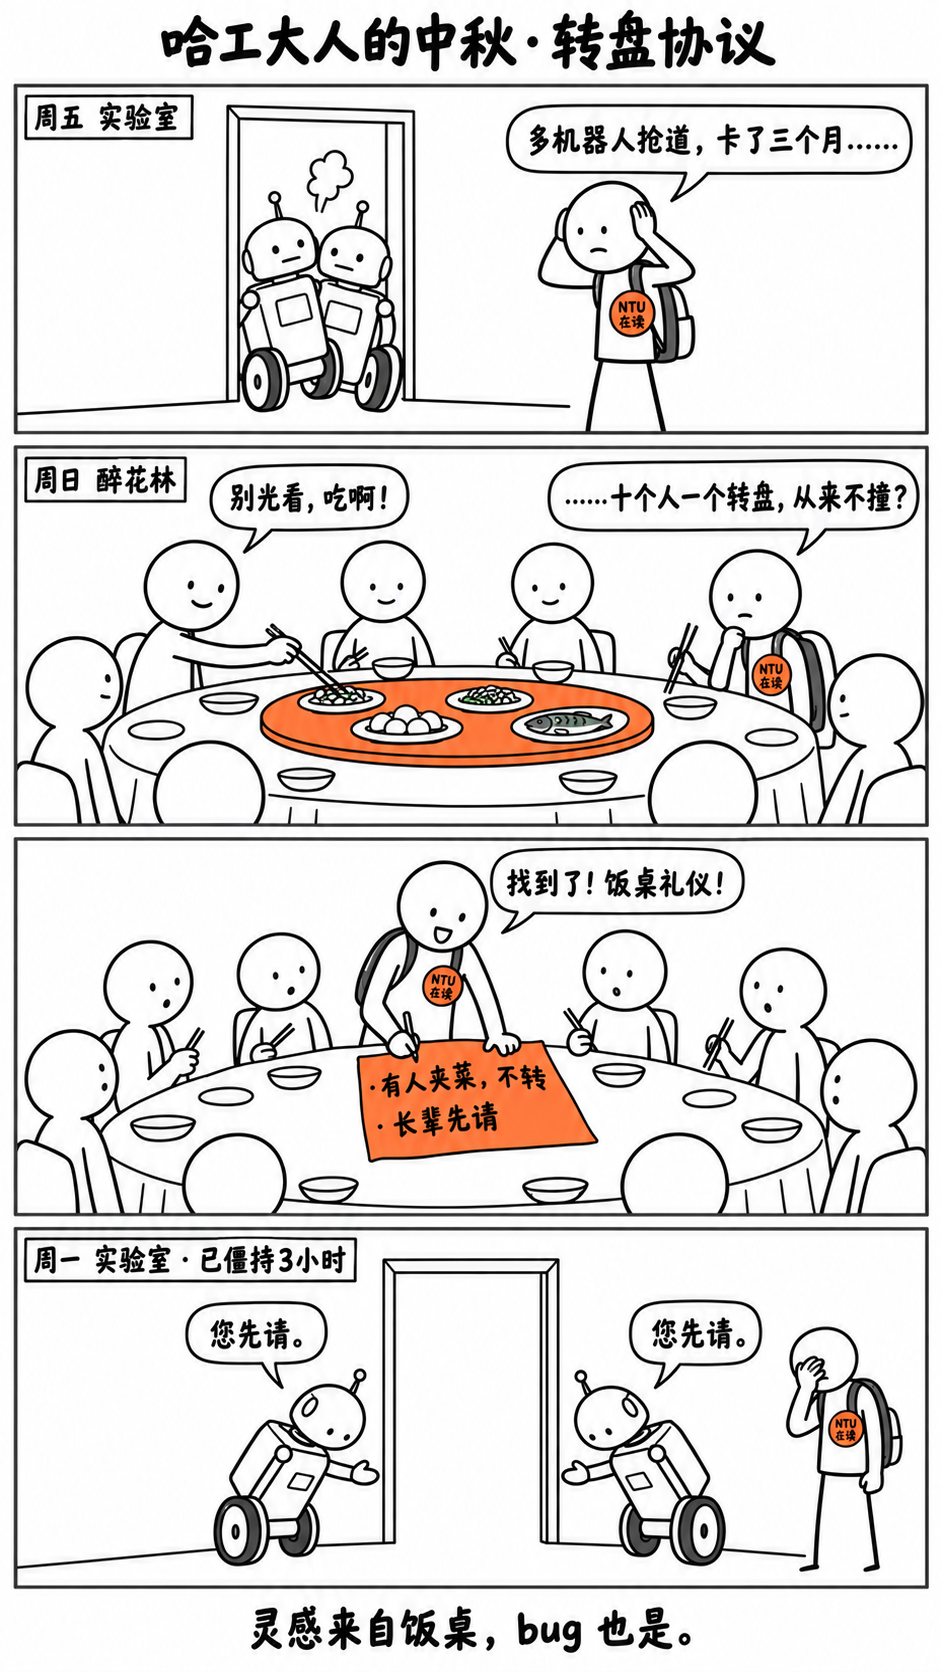
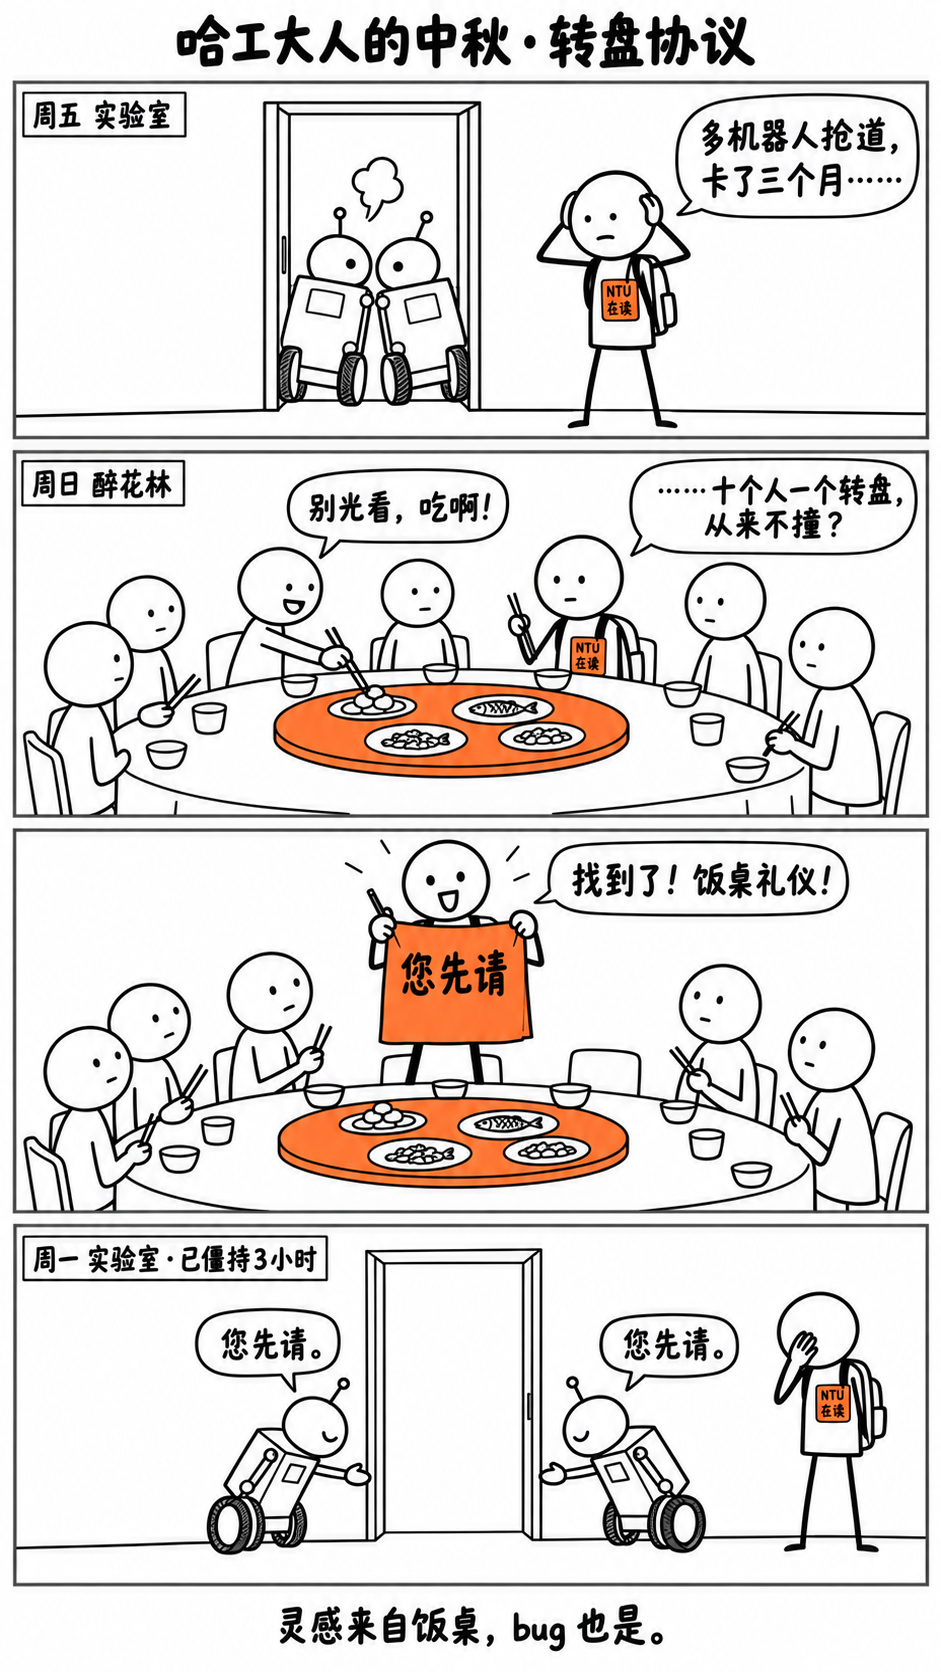
fix: cut the napkin to one line held up facing the reader
The napkin had two lines of notes and read upright to the viewer while the student wrote from the far side. It now holds only 您先请, which the robots repeat in panel 4, and he holds it up like a sign.

Changed region(s): [[0.0, 0.0, 0.9862, 0.9952]]

diff --git a/2026/09/hit-lazy-susan-protocol/zh/prompts/01-page-hit-lazy-susan-protocol.md b/2026/09/hit-lazy-susan-protocol/zh/prompts/01-page-hit-lazy-susan-protocol.md
@@ -16,8 +16,8 @@ Art: minimalist | Tone: neutral | Layout: four-panel vertical | Aspect: 9:16
    「多机器人抢道，卡了三个月……」
 2. Upper-middle (Development): round table with an orange lazy susan; one alumnus picks food while
    it stays still; student stares, chopsticks frozen. 「别光看，吃啊！」「……十个人一个转盘，从来不撞？」
-3. Lower-middle (Turn): student jumps up writing on an orange napkin 「有人夹菜，不转」「长辈先请」;
-   the table stares. 「找到了！饭桌礼仪！」
+3. Lower-middle (Turn): student jumps up and holds an orange napkin out toward the viewer like a
+   sign, reading 「您先请」; the table stares. 「找到了！饭桌礼仪！」
 4. Bottom (Conclusion): lab; the two robots bow to each other on both sides of the doorway, nobody
    enters; student facepalms. 「您先请。」「您先请。」
 
@@ -53,11 +53,14 @@ stays still; the other alumni wait calmly with their chopsticks lowered. The stu
 his chopsticks frozen in midair, not eating, staring intently at the turntable. Speech bubble from
 one alumnus: "别光看，吃啊！" Speech bubble from the student: "……十个人一个转盘，从来不撞？"
 
-Lower-middle panel (Turn, the strongest color emphasis): The same table. The student has sprung up
-from his chair, eyes wide and bright, writing fast with a pen on a large orange napkin held flat
-on the table. The napkin shows two short handwritten lines in black: "有人夹菜，不转" and "长辈先请".
-The orange napkin is the boldest element of the whole page. All the alumni around the table have
-stopped, their chopsticks frozen in midair, staring at him. Speech bubble from the student:
+Lower-middle panel (Turn, the strongest color emphasis): The same table. The student has sprung
+up from his chair, eyes wide and bright, and holds a large orange napkin up in front of his chest
+with both hands, turned outward toward the viewer like a protest sign, a pen still in one hand. The
+napkin is a flat upright rectangle facing the viewer squarely, not lying on the table and not
+tilted in perspective. On it, in big black handwritten characters written horizontally and
+reading upright to the viewer, are exactly three characters and nothing else: "您先请". The orange
+napkin is the boldest element of the whole page. All the alumni around the table have stopped,
+their chopsticks frozen in midair, staring at him. Speech bubble from the student:
 "找到了！饭桌礼仪！"
 
 Bottom panel (Conclusion): A small corner label in the top-left reads "周一 实验室 · 已僵持3小时".

diff --git a/2026/09/hit-noon-moon/research-ideas.md b/2026/09/hit-noon-moon/research-ideas.md
@@ -29,7 +29,7 @@
 |---|---|---|
 | 1 起 | 角标「周五 实验室」。两台机器人在一道窄门口同时往里挤，撞在一起冒烟。研究生抱头。 | 研究生：「多机器人抢道，卡了三个月……」 |
 | 2 承 | 角标「周日 醉花林」。一张圆桌、一个橙色转盘，十个人夹菜井然有序：有人伸筷子时转盘停着，没人撞。研究生举着筷子忘了吃，盯着转盘。 | 校友：「别光看，吃啊！」研究生：「……十个人一个转盘，从来不撞？」 |
-| 3 转 | 研究生猛地站起，两眼放光，在一张橙色餐巾纸上狂写：「有人夹菜，不转」「长辈先请」。全桌校友筷子停在半空看他。 | 研究生：「找到了！饭桌礼仪！」 |
+| 3 转 | 研究生猛地站起，两眼放光，双手把写好的橙色餐巾纸举在胸前朝外亮给全桌看，上面只有三个大字「您先请」。全桌校友筷子停在半空看他。 | 研究生：「找到了！饭桌礼仪！」 |
 | 4 合 | 角标「周一 实验室 · 已僵持 3 小时」。两台机器人停在窄门两侧，互相鞠躬，谁也不进门。研究生捂脸。 | 机器人A：「您先请。」机器人B：「您先请。」 |
 
 说明：灵感来自饭桌，bug 也是。
@@ -37,8 +37,8 @@
 转折在哪里（第3格）：第1格是冷冰冰的科研难题，第2格只是一顿普通的饭；结果三个月的难题，被每个
 中国人天天在用的转盘礼仪解开了。灵感的来源越日常越好笑。
 
-笑点在哪里（第4格）：灵感太灵——机器人不撞了，但把「长辈先请」也学会了：两台都觉得对方是长辈，
-客气到永远没人进门。第3格餐巾纸上的「长辈先请」就是埋好的雷，一眼就懂；工程师看到的是死锁，
+笑点在哪里（第4格）：灵感太灵——机器人不撞了，但把「您先请」也学会了：
+客气到永远没人进门。第3格餐巾纸上的「您先请」就是埋好的雷，一眼就懂；工程师看到的是死锁，
 其他人看到的是中国式客气，两边都笑。
 
 价值在哪里：科研灵感真的在校友会饭桌上找到了——撞车问题解决了，只是换来一个新问题。这正是科研的

diff --git a/2026/09/hit-lazy-susan-protocol/zh/storyboard.md b/2026/09/hit-lazy-susan-protocol/zh/storyboard.md
@@ -6,7 +6,7 @@
 |---|---|---|---|
 | 1 起 | 顶 | 角标「周五 实验室」。两台机器人同时挤一道窄门，撞在一起冒烟；研究生（胸牌「NTU 在读」）抱头。 | 研究生：「多机器人抢道，卡了三个月……」 |
 | 2 承 | 中上 | 角标「周日 醉花林」。圆桌上一个橙色转盘，校友们有序夹菜，有人伸筷子时转盘停着。研究生举着筷子盯着转盘。 | 校友：「别光看，吃啊！」研究生：「……十个人一个转盘，从来不撞？」 |
-| 3 转 | 中下 | 研究生猛地站起，在橙色餐巾纸上狂写「有人夹菜，不转」「长辈先请」；全桌筷子停在半空。 | 研究生：「找到了！饭桌礼仪！」 |
+| 3 转 | 中下 | 研究生猛地站起，双手把写好的橙色餐巾纸举在胸前、朝外亮给全桌看，上面只有三个大字「您先请」；全桌筷子停在半空。 | 研究生：「找到了！饭桌礼仪！」 |
 | 4 合 | 底 | 角标「周一 实验室 · 已僵持3小时」。两台机器人停在窄门两侧互相鞠躬，谁也不进门；研究生捂脸。 | 机器人A：「您先请。」机器人B：「您先请。」 |
 
 标题：哈工大人的中秋·转盘协议
